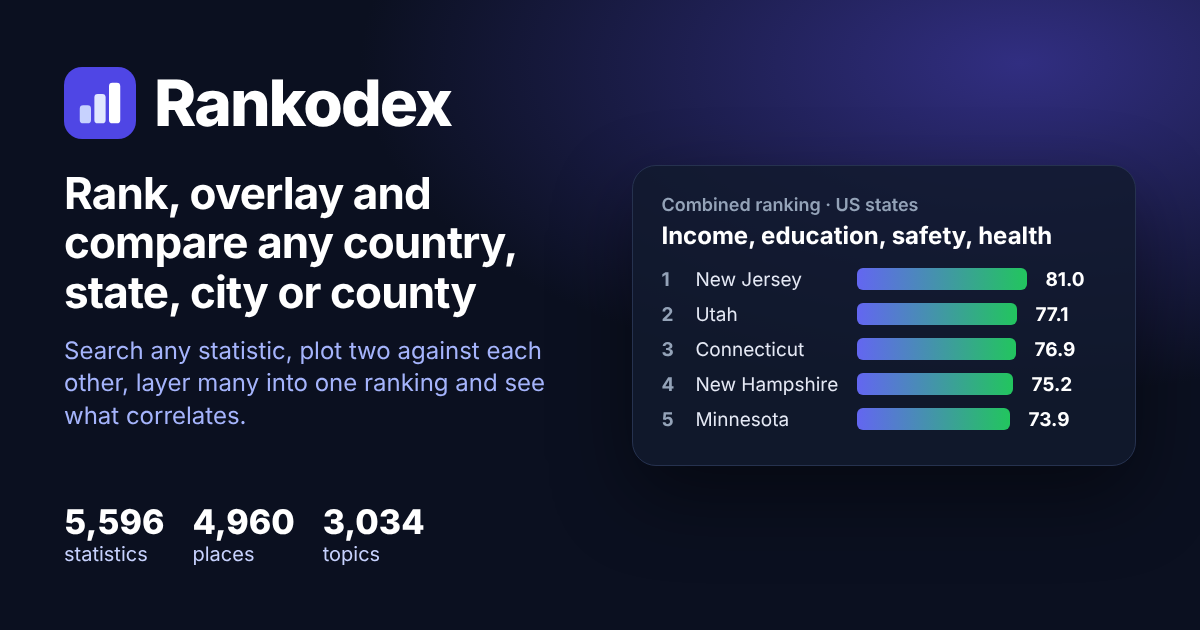
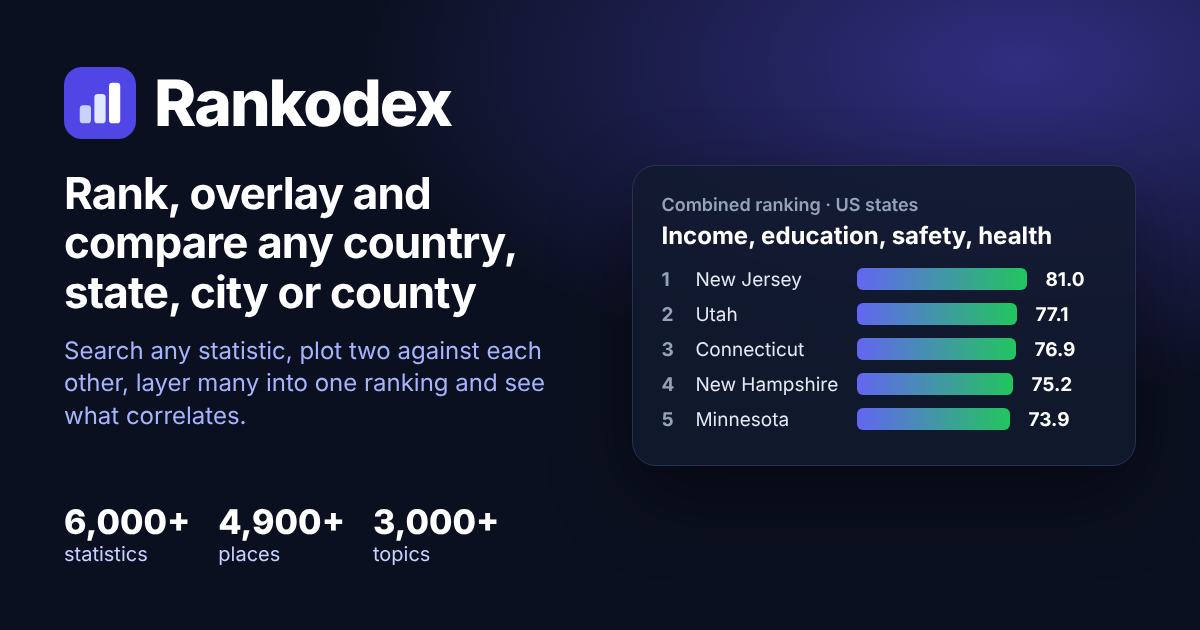
fix(web): format units, signs, years and heights correctly
Values read "$-93B", "9000" for 9000 BC, "5′ 12″", "52nd" for a
score of 52.2, "9.3M Mt", and state temperatures lost their °F.

formatValue now puts the minus before the currency, prints BC years,
derives feet and inches from rounded inches, prints non-integer
"rank" values as decimals, never abbreviates numbers whose unit is
already a scale, keeps °F and "$ per gallon" style units while
dropping ones that repeat the format, and never adds units to ranks
or percentages. The share image now quotes rounded totals.

Changed region(s): [[0.0617, 0.7841, 0.4317, 0.9048]]

diff --git a/apps/web/src/lib/format.ts b/apps/web/src/lib/format.ts
@@ -51,7 +51,7 @@ export function ordinal(n: number): string {
 function smartNumber(v: number): string {
   const a = Math.abs(v);
   if (a >= 1e6) return compact2.format(v);
-  if (a >= 1000) return int.format(v);
+  if (a >= 1000 || Number.isInteger(v)) return int.format(v);
   if (a >= 100) return dec1.format(v);
   if (a >= 1) return dec2.format(v);
   if (a === 0) return '0';
@@ -65,6 +65,52 @@ function money(v: number): string {
   return usdCents.format(v);
 }
 
+/** Puts the minus sign before the currency symbol ("-$93B", not "$-93B"). */
+function signedMoney(v: number, format: (abs: number) => string): string {
+  return v < 0 ? `-${format(-v)}` : format(v);
+}
+
+/** Units that state a scale ("in millions", "kt"): numbers in them are never abbreviated again. */
+const SCALE_UNIT = /^(thousands?|millions?|billions?|mn|bn|kt|mt)$/i;
+
+/** Units that repeat what the format already prints (°C for degC, $ for money, % for percents). */
+function duplicatesFormat(unit: string, fmt: string | null): boolean {
+  const u = unit.trim();
+  if (fmt === 'degC') return /^°?\s*C$/i.test(u);
+  if (fmt === 'degF') return /^°?\s*F$/i.test(u);
+  if (fmt?.startsWith('money') === true) return /^(\$|usd|us\$)$/i.test(u);
+  return false;
+}
+
+/**
+ * Appends a metric's unit to a formatted number. Ranks, percentages, feet and
+ * scale ranges such as "0-10" get no unit; "$ per gallon" becomes a currency
+ * prefix plus " per gallon"; "%" attaches without a space.
+ */
+function withUnit(
+  out: string,
+  unit: string | null | undefined,
+  fmt: string | null
+): string {
+  if (unit == null) return out;
+  const u = unit.trim();
+  if (u === '' || duplicatesFormat(u, fmt)) return out;
+  if (
+    fmt === 'ranking' ||
+    fmt === 'perc' ||
+    fmt === 'percAlt' ||
+    fmt === 'cmToFeet'
+  )
+    return out;
+  if (/^\d+(\.\d+)?\s*[-–]\s*\d+/.test(u)) return out;
+  if (u === '%') return `${out}%`;
+  if (u.startsWith('$') && fmt?.startsWith('money') !== true) {
+    const rest = u.slice(1).trim();
+    return `$${out}${rest === '' ? '' : ` ${rest}`}`;
+  }
+  return `${out} ${u}`;
+}
+
 /** Format a metric value the way the source presents it (with a few readability improvements). */
 export function formatValue(
   metric: Pick<Metric, 'fmt' | 'unit' | 'kind'> | undefined,
@@ -75,10 +121,13 @@ export function formatValue(
   if (typeof v === 'string')
     return v.replaceAll(' | ', ', ').replace(/\s*\|\s*$/, '');
   const fmt = metric?.fmt ?? null;
+  const scaled = metric?.unit != null && SCALE_UNIT.test(metric.unit.trim());
+  const compactOk = opts.compact === true && !scaled;
   let out: string;
   switch (fmt) {
     case 'ranking':
-      out = ordinal(v);
+      // Some "rank" columns hold scores (52.2); only whole numbers are ordinals.
+      out = Number.isInteger(v) ? ordinal(v) : dec1.format(v);
       break;
     case 'percAlt':
       out = `${Math.abs(v) < 10 ? dec2.format(v) : dec1.format(v)}%`;
@@ -88,37 +137,42 @@ export function formatValue(
       break;
     case 'moneyWithCurrency':
     case 'moneyWithCurrencyAbbrev':
-      out =
-        opts.compact === true || Math.abs(v) >= 1e6
-          ? '$' + compact2.format(v)
-          : money(v);
+      out = signedMoney(v, (a) =>
+        !scaled && (opts.compact === true || a >= 1e6)
+          ? '$' + compact2.format(a)
+          : money(a)
+      );
       break;
     case 'moneyWithCurrencyDollars':
-      out =
-        opts.compact === true && Math.abs(v) >= 1e5
-          ? '$' + compact.format(v)
-          : usd.format(v);
+      out = signedMoney(v, (a) =>
+        compactOk && a >= 1e5 ? '$' + compact.format(a) : usd.format(a)
+      );
       break;
     case 'moneyWithCurrencyCents':
-      out = usdCents.format(v);
+      out = signedMoney(v, (a) => usdCents.format(a));
       break;
     case 'moneyWithCurrency3':
-      out = usd3.format(v);
+      out = signedMoney(v, (a) => usd3.format(a));
       break;
     case 'moneyWithCurrencyEuros':
-      out = eur.format(v);
+      out = signedMoney(v, (a) => eur.format(a));
       break;
     case 'abbreviateNumber':
     case 'abbreviateNumber1k':
     case 'floatNumberSmart':
-      out = Math.abs(v) >= 1e4 ? compact.format(v) : smartNumber(v);
+      out =
+        !scaled && Math.abs(v) >= 1e4
+          ? compact.format(v)
+          : scaled && Math.abs(v) >= 1e4
+            ? int.format(v)
+            : smartNumber(v);
       break;
     case 'numberWithCommas':
     case 'numberWithCommasRound':
     case 'numberWithCommasZeroes':
     case 'km2MiRound':
       out =
-        opts.compact === true && Math.abs(v) >= 1e5
+        compactOk && Math.abs(v) >= 1e5
           ? compact.format(v)
           : Number.isInteger(v) || Math.abs(v) >= 100
             ? int.format(v)
@@ -126,15 +180,11 @@ export function formatValue(
       break;
     case 'floatNumberTenths':
       out =
-        opts.compact === true && Math.abs(v) >= 1e5
-          ? compact.format(v)
-          : dec1.format(v);
+        compactOk && Math.abs(v) >= 1e5 ? compact.format(v) : dec1.format(v);
       break;
     case 'floatNumber':
       out =
-        opts.compact === true && Math.abs(v) >= 1e5
-          ? compact.format(v)
-          : dec2.format(v);
+        compactOk && Math.abs(v) >= 1e5 ? compact.format(v) : dec2.format(v);
       break;
     case 'floatNumber3':
       out = dec3.format(v);
@@ -146,12 +196,14 @@ export function formatValue(
       out = `${dec1.format(v)}°F`;
       break;
     case 'year':
+      out = v < 0 ? `${Math.round(-v)} BC` : String(Math.round(v));
+      break;
     case 'zipCode':
       out = String(Math.round(v));
       break;
     case 'cmToFeet': {
-      const inches = v / 2.54;
-      out = `${Math.floor(inches / 12)}′ ${Math.round(inches % 12)}″`;
+      const inches = Math.round(v / 2.54);
+      out = `${Math.floor(inches / 12)}′ ${inches % 12}″`;
       break;
     }
     case 'plusMinus':
@@ -163,21 +215,9 @@ export function formatValue(
       break;
     default:
       out =
-        opts.compact === true && Math.abs(v) >= 1e5
-          ? compact.format(v)
-          : smartNumber(v);
+        compactOk && Math.abs(v) >= 1e5 ? compact.format(v) : smartNumber(v);
   }
-  if (
-    opts.unit !== false &&
-    metric?.unit &&
-    !/[$%°]/.test(metric.unit) &&
-    !/^\d+(\.\d+)?\s*[-–]\s*\d+/.test(metric.unit) &&
-    fmt?.startsWith('money') !== true &&
-    fmt !== 'cmToFeet'
-  ) {
-    out += ` ${metric.unit}`;
-  }
-  return out;
+  return opts.unit === false ? out : withUnit(out, metric?.unit, fmt);
 }
 
 /** Short axis tick formatter for a metric. */

diff --git a/apps/web/test/format.test.ts b/apps/web/test/format.test.ts
@@ -64,3 +64,51 @@ describe('formatValue', () => {
     );
   });
 });
+
+describe('formatValue edge cases from data review', () => {
+  test('negative money puts the sign before the currency', () => {
+    expect(formatValue(metric('moneyWithCurrency'), -93e9)).toBe('-$93B');
+  });
+
+  test('negative years read as BC', () => {
+    expect(formatValue(metric('year'), -9000)).toBe('9000 BC');
+    expect(formatValue(metric('year'), 1947)).toBe('1947');
+  });
+
+  test('heights never show 12 inches', () => {
+    expect(formatValue(metric('cmToFeet'), 182.79)).toBe('6′ 0″');
+  });
+
+  test('rank columns holding scores are not ordinals', () => {
+    expect(formatValue(metric('ranking'), 52.2)).toBe('52.2');
+  });
+
+  test('scale units are never abbreviated twice', () => {
+    expect(formatValue(metric('abbreviateNumber', 'Mt'), 13125)).toBe(
+      '13,125 Mt'
+    );
+    expect(
+      formatValue(metric('numberWithCommas', 'millions'), 569, {
+        compact: true,
+      })
+    ).toBe('569 millions');
+  });
+
+  test('units that duplicate the format are dropped, others kept', () => {
+    expect(formatValue(metric('degC', 'C'), -40)).toBe('-40.0°C');
+    expect(formatValue(metric('floatNumberTenths', '°F'), 26.6)).toBe(
+      '26.6 °F'
+    );
+    expect(formatValue(metric('floatNumber3', '$ per gallon'), 1.183)).toBe(
+      '$1.183 per gallon'
+    );
+    expect(formatValue(metric('ranking', 'acres'), 41)).toBe('41st');
+    expect(
+      formatValue(metric('moneyWithCurrencyCents', 'per dozen'), 6.12)
+    ).toBe('$6.12 per dozen');
+  });
+
+  test('whole counts have no stray decimals', () => {
+    expect(formatValue(metric(null), 590)).toBe('590');
+  });
+});
